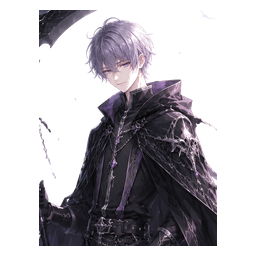
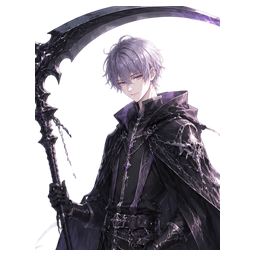
chore(heroes): 收尾鸢影美术资源

diff --git a/godot-client/CHANGELOG.md b/godot-client/CHANGELOG.md
@@ -1,5 +1,11 @@
 # BattleBlitz Godot Client Changelog
 
+## 2026-08-02 资源收尾
+
+- 鸢影美术资源二次收尾:
+  - 同步更新 Web 与 Godot 两端的 `yuanying.png` / `portrait_yuanying.png` / `crest_yuanying.png`。
+  - 已用 `game/tests/test_godot_unit_portrait_paths.py` 锁定资源路径与 Godot sprite registry，避免英雄图像资源缺失回流。
+
 ## 2026-08-02
 
 - 鸢影正式可用化:
